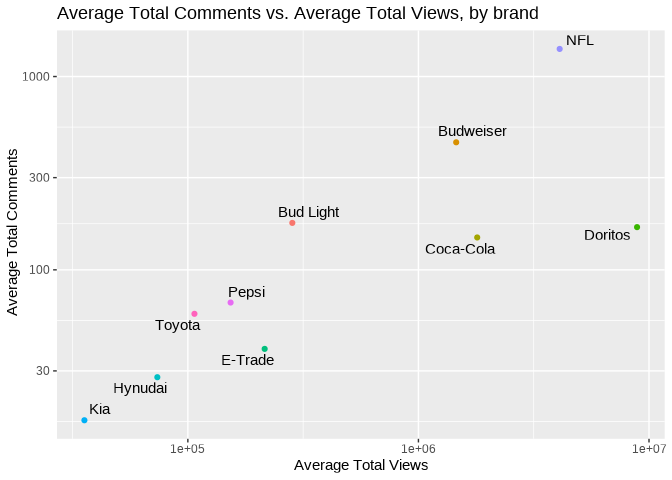
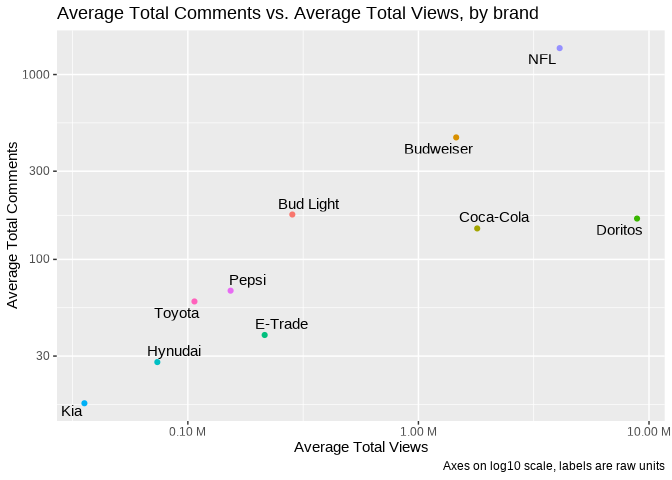
touched up q2 graph 2

diff --git a/README.md b/README.md
@@ -282,8 +282,8 @@ reactions received by each brand for all commercials in the dataset.
 When we tried this, however, the visualization looked very crowded and
 did not look appealing when we changed the width of the bars. We instead
 decided that a lollipop plot of the same data was easier to interpret
-and more visually appealing. In order to display the brands in a neat
-manner, we put them on the y-axis and the proportions on the x. The
+and more aesthetically appealing. In order to display the brands in a
+neat manner, we put them on the y-axis and the proportions on the x. The
 lollipop plot is effective in this case, as it clearly demonstrates
 which brands received a higher relative number of likes. This metric is
 important, as it gauges how audiences react to a video, giving us some
@@ -300,12 +300,15 @@ be important to look at other measures of popularity, in this case,
 `avg_total_views` and `avg_total_comments`. These were both variables we
 generated by calculating the average total views and comments each brand
 received per commercial. We put `avg_total_views` on the x-axis and
-`avg_total_comments` on the y-axis, coloring by brand. We believe this
-visualization is appropriate for our analysis, as it clearly
-demonstrates the which brands receive the most amount of views and
-comments per commercial. This graph is a nice compliment to our first
-visualization and will be helpful to see how each brand is represented
-in each scenario.
+`avg_total_comments` on the y-axis, coloring by brand. Due to the large
+discrepancy in values of view and comment count, we decided to change
+the scales of the x-axis and y-axis to a Log10 scale. This made it much
+easier to intrepret the graph and spaced out the points in a way that
+made them easy to see. We believe this visualization is appropriate for
+our analysis, as it clearly demonstrates the which brands receive the
+most amount of views and comments per commercial. This graph is a nice
+compliment to our first visualization and will be helpful to see how
+each brand is represented in each scenario.
 
 ### Analysis
 
@@ -332,9 +335,10 @@ ggplot(q2_p2_data, aes(x = avg_total_views, y = avg_total_comments)) +
          geom_point(aes(color = brand), show.legend = FALSE) + 
   geom_text_repel(aes(label = brand)) +
   scale_y_log10() + 
-  scale_x_log10() +
-  labs(x = "Average Total Views", y = " Average Total Comments", 
-       title = "Average Total Comments vs. Average Total Views, by brand") 
+  scale_x_log10(labels = unit_format(unit = "M", scale = 1e-6)) +
+  labs(x = "Average Total Views", y = "Average Total Comments", 
+       title = "Average Total Comments vs. Average Total Views, by brand",
+       caption = "Axes on log10 scale, labels are raw units") 
 ```
 
 ![](README_files/figure-gfm/q2_p2_graph-1.png)<!-- -->
